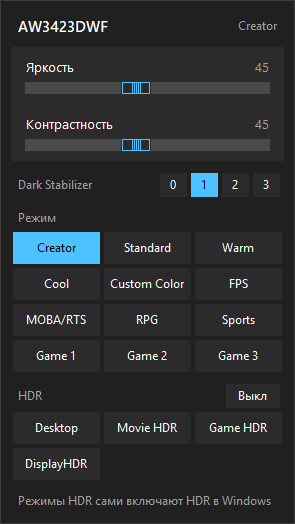
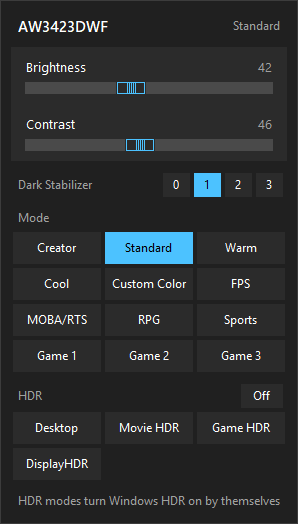
Make the interface English only
Drops the Russian translation and the language switch; all strings are
English literals again. README screenshot shows the English panel.

diff --git a/aw_tray/app.py b/aw_tray/app.py
@@ -9,9 +9,7 @@ import winreg
 import pystray
 from PIL import Image, ImageDraw
 
-from . import i18n
 from .controller import Controller
-from .i18n import t
 from .modes import DARK_STABILIZER_LEVELS, HDR_MODES, MODEL, SDR_MODES
 from .panel import Panel
 
@@ -74,8 +72,7 @@ class App:
         self.icon = pystray.Icon(APP_NAME, _icon_image(), f"{MODEL}", menu=self._menu())
 
     def _state_changed(self, state):
-        # Look the panel up on the Tk thread: a language switch may have replaced it by then.
-        self._call(lambda: self.panel.render(state))
+        self._call(self.panel.render, state)
         self.icon.title = f"{MODEL}: {state.mode_name}" if state.mode_name else MODEL
         self.icon.update_menu()  # re-evaluates the radio checks
 
@@ -98,41 +95,25 @@ class App:
                 checked=lambda _: self.controller.state.mode_e2 == mode.e2, radio=True)
 
         # pystray picks the call signature from the argument count, so actions take none.
-        # Texts are callables so a language switch shows up on the next menu update.
         def stabilizer_item(level):
             return pystray.MenuItem(
-                lambda _: t("menu_level", level=level), lambda: self.controller.set_dark_stabilizer(level),
+                f"Level {level}", lambda: self.controller.set_dark_stabilizer(level),
                 checked=lambda _: self.controller.state.dark_stabilizer == level, radio=True)
 
-        def language_item(code, label):
-            return pystray.MenuItem(
-                label, lambda: self._call(self._set_language, code),
-                checked=lambda _: i18n.language() == code, radio=True)
-
         return pystray.Menu(
-            pystray.MenuItem(lambda _: t("menu_open"), lambda: self._call(self.panel.toggle), default=True),
+            pystray.MenuItem("Open panel", lambda: self._call(self.panel.toggle), default=True),
             pystray.Menu.SEPARATOR,
-            pystray.MenuItem(lambda _: t("mode"), pystray.Menu(*[mode_item(m) for m in SDR_MODES])),
-            pystray.MenuItem(lambda _: t("hdr_mode"), pystray.Menu(*[mode_item(m) for m in HDR_MODES])),
+            pystray.MenuItem("Mode", pystray.Menu(*[mode_item(m) for m in SDR_MODES])),
+            pystray.MenuItem("HDR mode", pystray.Menu(*[mode_item(m) for m in HDR_MODES])),
             pystray.MenuItem("Dark Stabilizer", pystray.Menu(
                 *[stabilizer_item(lv) for lv in DARK_STABILIZER_LEVELS])),
             pystray.Menu.SEPARATOR,
-            pystray.MenuItem("Language / Язык", pystray.Menu(
-                *[language_item(code, label) for code, label in i18n.LANGUAGES.items()])),
-            pystray.MenuItem(lambda _: t("menu_autostart"),
+            pystray.MenuItem("Start with Windows",
                              lambda: set_autostart(not autostart_enabled()),
                              checked=lambda _: autostart_enabled(),
                              enabled=_autostart_command() is not None),
-            pystray.MenuItem(lambda _: t("menu_quit"), self._quit),
+            pystray.MenuItem("Quit", self._quit),
         )
-
-    def _set_language(self, code):
-        i18n.set_language(code)
-        # Widget texts are fixed at creation, so the panel is rebuilt in the new language.
-        self.panel.window.destroy()
-        self.panel = Panel(self.root, self.controller)
-        self.panel.render(self.controller.state)
-        self.icon.update_menu()
 
     def _quit(self):
         self.icon.stop()

diff --git a/aw_tray/controller.py b/aw_tray/controller.py
@@ -6,7 +6,6 @@ from dataclasses import dataclass, replace
 
 from . import hdr
 from .ddc import Monitor
-from .i18n import t
 from .modes import (DARK_STABILIZER_BASE, DARK_STABILIZER_LEVELS, DARK_STABILIZER_QUERY, MODEL,
                     VCP_BRIGHTNESS, VCP_CONTRAST, VCP_DELL_COMMAND, VCP_HDR_ACTIVE, VCP_MODE,
                     name_for)
@@ -78,12 +77,12 @@ class Controller:
             try:
                 getattr(self, "_do_" + job[0])(*job[1:])
             except Exception as exc:  # keep the worker alive whatever happens
-                self._publish(busy=None, message=t("error", error=exc))
+                self._publish(busy=None, message=f"Error: {exc}")
 
     def _do_refresh(self):
         if not self._monitor.available():
             self._publish(available=False, busy=None,
-                          message=t("no_ddc"))
+                          message="The monitor does not answer over DDC/CI (remote session or monitor off)")
             return
         hdr_state = hdr.get_state(MODEL) or (False, False)
         self._publish(
@@ -114,7 +113,7 @@ class Controller:
         time.sleep(0.5)
         got = self._read_dark_stabilizer()
         self._publish(dark_stabilizer=got, busy=None, message=None if got == level else
-                      t("stabilizer_not_confirmed", level=level))
+                      f"The monitor did not confirm Dark Stabilizer {level}")
 
     def _do_slider(self, code):
         time.sleep(0.08)  # let a dragging slider settle so only the last value is sent
@@ -124,7 +123,7 @@ class Controller:
             return
         ok = self._monitor.set(code, value)
         field = "brightness" if code == VCP_BRIGHTNESS else "contrast"
-        self._publish(**{field: value}, message=None if ok else t("value_rejected"))
+        self._publish(**{field: value}, message=None if ok else "The monitor did not accept the value")
 
     def _wait_for(self, code, expected, timeout):
         deadline = time.time() + timeout
@@ -144,20 +143,20 @@ class Controller:
         return ready
 
     def _do_hdr(self, enabled):
-        self._publish(busy=t("hdr_turning_on") if enabled else t("hdr_turning_off"), message=None)
+        self._publish(busy="HDR on…" if enabled else "HDR off…", message=None)
         ok = self._switch_hdr(enabled)
         self._do_refresh()
-        self._publish(busy=None, message=None if ok else t("hdr_failed"))
+        self._publish(busy=None, message=None if ok else "Could not switch HDR")
 
     def _do_mode(self, mode):
         self._publish(busy=mode.name, message=None)
         current_hdr = (hdr.get_state(MODEL) or (False, False))[1]
         if mode.hdr != current_hdr and not self._switch_hdr(mode.hdr):
             self._do_refresh()
-            self._publish(busy=None, message=t("hdr_failed"))
+            self._publish(busy=None, message="Could not switch HDR")
             return
         self._monitor.set(mode.code, mode.value)
         confirmed = self._wait_for(VCP_MODE, mode.e2, timeout=6)
         self._do_refresh()  # brightness and contrast are stored per mode
         self._publish(busy=None, message=None if confirmed else
-                      t("mode_not_confirmed", mode=mode.name, current=self.state.mode_name))
+                      f"The monitor did not confirm {mode.name}; it reports {self.state.mode_name}")

diff --git a/aw_tray/panel.py b/aw_tray/panel.py
@@ -5,7 +5,6 @@ import tkinter as tk
 from ctypes import wintypes
 from tkinter import ttk
 
-from .i18n import t
 from .modes import DARK_STABILIZER_LEVELS, HDR_MODES, MODEL, SDR_MODES
 
 BG = "#202020"
@@ -88,8 +87,8 @@ class Panel:
 
         card = tk.Frame(outer, bg=CARD)
         card.pack(fill="x", padx=10, pady=4)
-        self._brightness = Slider(card, t("brightness"), controller.set_brightness)
-        self._contrast = Slider(card, t("contrast"), controller.set_contrast)
+        self._brightness = Slider(card, "Brightness", controller.set_brightness)
+        self._contrast = Slider(card, "Contrast", controller.set_contrast)
 
         # On the window background, like the mode buttons, so unselected levels stay visible.
         stabilizer = tk.Frame(outer, bg=BG)
@@ -104,7 +103,7 @@ class Panel:
             self._stabilizer_buttons[level] = button
 
         self._mode_buttons = {}
-        self._section(outer, t("mode"), SDR_MODES)
+        self._section(outer, "Mode", SDR_MODES)
 
         hdr_header = tk.Frame(outer, bg=BG)
         hdr_header.pack(fill="x", padx=14, pady=(10, 2))
@@ -191,14 +190,14 @@ class Panel:
                 self._paint(button, key == current, enabled)
         self._hdr_on = state.hdr_on
         self._hdr_button.config(
-            text=t("on") if state.hdr_on else t("off"),
+            text="On" if state.hdr_on else "Off",
             bg=ACCENT if state.hdr_on else CARD, fg=ACCENT_FG if state.hdr_on else FG,
             activebackground="#3a3a3a", activeforeground=FG,
             state="normal" if enabled and state.hdr_supported else "disabled")
         self._mode_label.config(text=state.mode_name or "")
         if state.busy:
-            self._status.config(text=t("switching", what=state.busy), fg=MUTED)
+            self._status.config(text=f"Switching: {state.busy}", fg=MUTED)
         elif state.message:
             self._status.config(text=state.message, fg=WARN)
         else:
-            self._status.config(text=t("hdr_hint"), fg=MUTED)
+            self._status.config(text="HDR modes turn Windows HDR on by themselves", fg=MUTED)

diff --git a/aw_tray/modes.py b/aw_tray/modes.py
@@ -5,8 +5,6 @@ Each mode is switched by writing `value` to VCP `code`; the monitor then reports
 """
 from dataclasses import dataclass
 
-from .i18n import t
-
 MODEL = "AW3423DWF"
 
 VCP_BRIGHTNESS = 0x10
@@ -64,4 +62,4 @@ _BY_E2 = {m.e2: m.name for m in SDR_MODES + HDR_MODES}
 def name_for(e2):
     if e2 is None:
         return None
-    return _BY_E2.get(e2) or _DISPLAY_ONLY.get(e2) or t("unknown_mode", value=e2)
+    return _BY_E2.get(e2) or _DISPLAY_ONLY.get(e2) or f"unknown ({e2})"

diff --git a/README.md b/README.md
@@ -17,9 +17,6 @@ Mode codes are in [VCP_MAP.md](VCP_MAP.md). Custom Color HDR and the HDR Peak 10
 toggle are not reachable over DDC/CI and stay in the monitor's own menu. Creator always
 means Creator with the DCI-P3 color space; Creator sRGB is left to the monitor menu.
 
-The interface is in English and Russian. It follows the Windows display language;
-switch it in the tray menu under "Language / Язык".
-
 ## Compatibility and disclaimer
 
 This is an unofficial project. It is not affiliated with, endorsed by or supported by
